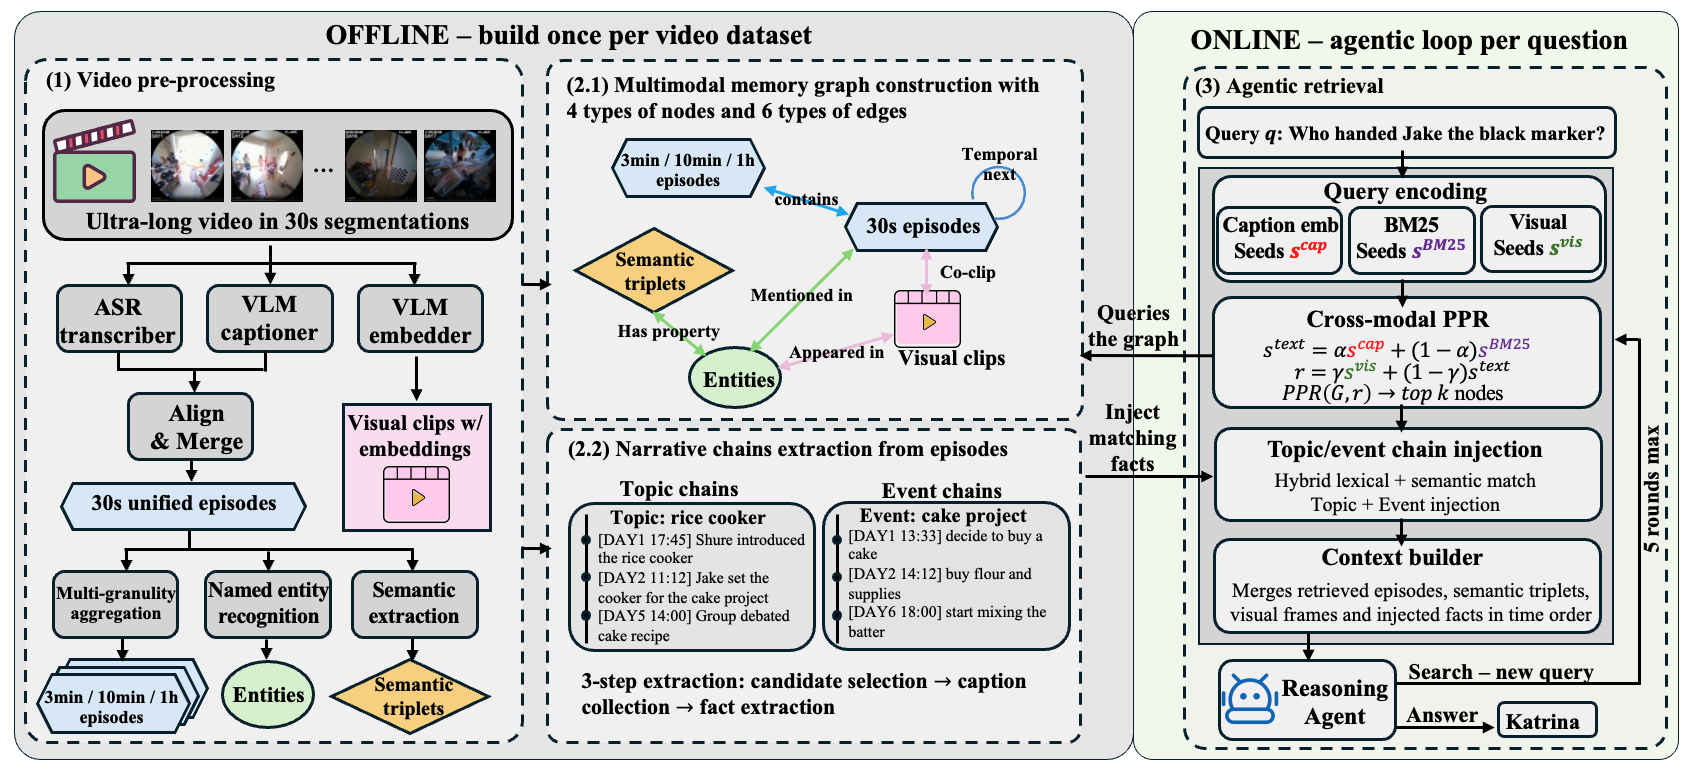
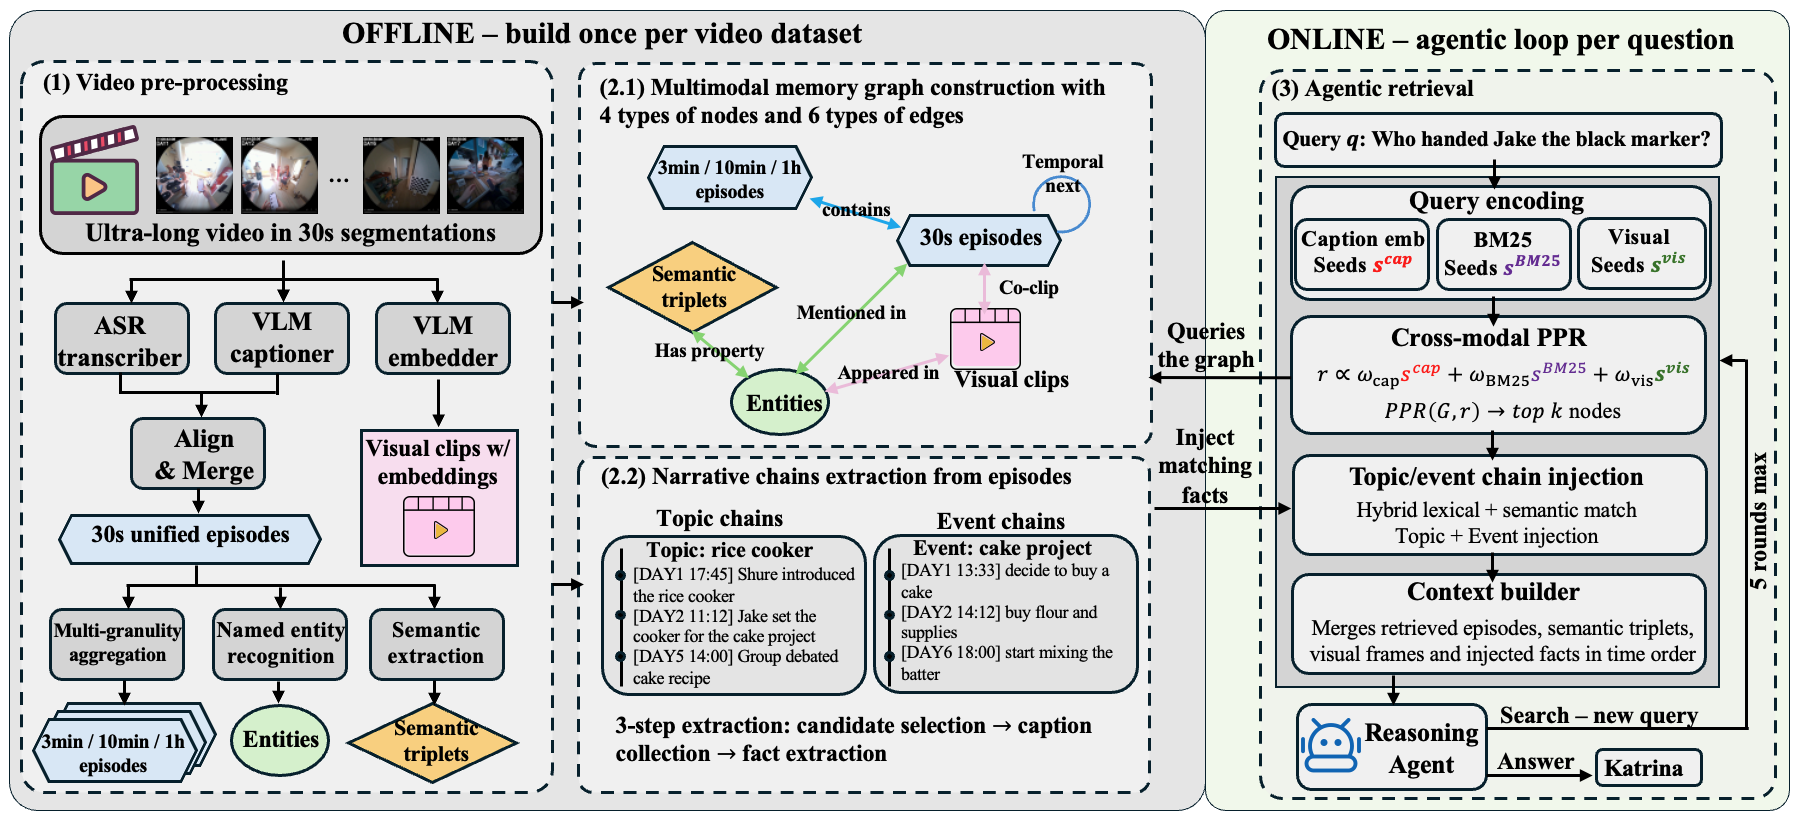
Update method figure and restore preprocessing scripts referenced in README
- figures/fig2.png: new method overview matching the camera-ready paper
  (seed vector written as a weighted sum of the three channels).
- preprocess/egolife/{translate_densecap,generate_sync}.py: restore the two
  caption-preprocessing scripts README step 3.2 calls (they lived under
  data/EgoLife/utils/, which is not tracked); translation defaults to
  openai/gpt-4o-mini via OpenRouter, overridable with --model or
  TRANSLATION_MODEL.
- src/worldmm/memory/episodic/multiscale.py: restore the module used by
  README step 3.3 (removed in 0f2273f as dead code).
- README: point step 3.2 at the restored scripts.

Changed region(s): [[0.0, 0.0, 1.0, 0.9948], [0.7077, 0.6528, 0.7385, 0.6839]]

diff --git a/preprocess/egolife/translate_densecap.py b/preprocess/egolife/translate_densecap.py
@@ -1,0 +1,111 @@
+import argparse
+import json
+import os
+from concurrent.futures import ThreadPoolExecutor, as_completed
+import pysrt
+from tqdm import tqdm
+
+from worldmm.llm import LLMModel
+
+DEFAULT_TRANSLATION_MODEL = "openai/gpt-4o-mini"
+
+SYSTEM_PROMPT = "You are a helpful assistant that translates text from Chinese to English. Answer in translated text only."
+
+
+def build_record(name: str, date: str, start: str, end: str, idx: int, translation: str) -> dict:
+    return {
+        "custom_id": f"{idx}-{name}-{date}-{start}-{end}",
+        "translated_text": translation
+    }
+
+
+def translate(input_path: str, output_path: str, model_name: str) -> None:
+    """
+    Translate a single SRT file or every SRT file under a directory (e.g., DenseCaption/A1_JAKE/DAY*).
+    - input_path: path to an SRT file or a directory containing DAY folders.
+    - output_path: output file if input_path is a file, otherwise output directory for all translated JSONLs.
+    """
+    model = LLMModel(model_name=model_name)
+
+    def _translate_file(in_file: str, out_file: str) -> None:
+        subs = list(pysrt.open(in_file))
+        name = in_file.split("/")[-3]
+        date = in_file.split("/")[-2]
+        hour = int(os.path.basename(in_file).split("_")[-1][:2])
+
+        def _translate_one(idx: int, text: str, start: str, end: str):
+            translation = model.generate([
+                {"role": "system", "content": SYSTEM_PROMPT},
+                {"role": "user", "content": text}
+            ])
+            return idx, build_record(name, date, start, end, idx, translation)
+
+        futures = []
+        with ThreadPoolExecutor() as executor:
+            for idx, sub in enumerate(subs, start=1):
+                start = f"{(hour + sub.start.hours):02d}{sub.start.minutes:02d}{sub.start.seconds:02d}"
+                end = f"{(hour + sub.end.hours):02d}{sub.end.minutes:02d}{sub.end.seconds:02d}"
+                futures.append(executor.submit(_translate_one, idx, sub.text, start, end))
+
+            results = {}
+            for future in tqdm(as_completed(futures), total=len(futures), desc=f"Translating {os.path.basename(in_file)}"):
+                idx, record = future.result()
+                results[idx] = record
+
+        ordered_records = [results[i] for i in sorted(results.keys())]
+
+        parent_dir = os.path.dirname(out_file) or "."
+        os.makedirs(parent_dir, exist_ok=True)
+        with open(out_file, "w", encoding="utf-8") as f:
+            for record in ordered_records:
+                json.dump(record, f, ensure_ascii=False)
+                f.write("\n")
+
+    if os.path.isdir(input_path):
+        os.makedirs(output_path, exist_ok=True)
+        day_dirs = sorted([d for d in os.listdir(input_path) if d.startswith("DAY")])
+        
+        file_pairs = []
+        for day in day_dirs:
+            day_path = os.path.join(input_path, day)
+            if not os.path.isdir(day_path):
+                continue
+
+            files = [f for f in os.listdir(day_path) if f.endswith(".srt")]
+            for file in files:
+                input_file = os.path.join(day_path, file)
+                output_file = os.path.join(output_path, file.replace(".srt", ".jsonl"))
+                file_pairs.append((input_file, output_file))
+        
+        with ThreadPoolExecutor() as executor:
+            futures = {executor.submit(_translate_file, in_f, out_f): in_f for in_f, out_f in file_pairs}
+            for future in tqdm(as_completed(futures), total=len(futures), desc="Translating files"):
+                future.result()
+    else:
+        _translate_file(input_path, output_path)
+
+
+if __name__ == "__main__":
+    parser = argparse.ArgumentParser(description="Translate DenseCaption SRT files to JSONL.")
+    parser.add_argument(
+        "--input-path",
+        default="data/EgoLife/EgoLifeCap/DenseCaption/A1_JAKE",
+        help="Input SRT file or directory containing DAY folders.",
+    )
+    parser.add_argument(
+        "--output-path",
+        default="data/EgoLife/EgoLifeCap/DenseCaption/translated",
+        help="Output JSONL file or directory.",
+    )
+    parser.add_argument(
+        "--model",
+        default=os.environ.get("TRANSLATION_MODEL", DEFAULT_TRANSLATION_MODEL),
+        help=(
+            "LLM model name. Uses TRANSLATION_MODEL env var when set, "
+            f"otherwise defaults to {DEFAULT_TRANSLATION_MODEL}."
+        ),
+    )
+    args = parser.parse_args()
+
+    print(f"[translate_densecap] Using model: {args.model}")
+    translate(args.input_path, args.output_path, args.model)

diff --git a/preprocess/egolife/generate_sync.py b/preprocess/egolife/generate_sync.py
@@ -1,0 +1,135 @@
+import json
+import os
+from typing import Dict, List
+
+import pandas as pd
+import pysrt
+from tqdm import tqdm
+
+BASE_DIR = "data/EgoLife"
+DENSE_CAPTION_DIR = os.path.join(BASE_DIR, "EgoLifeCap/DenseCaption")
+TRANSLATED_DIR = os.path.join(DENSE_CAPTION_DIR, "translated")
+TRANSCRIPT_DIR = os.path.join(BASE_DIR, "EgoLifeCap/Transcript")
+SYNC_DIR = os.path.join(BASE_DIR, "EgoLifeCap/Sync")
+
+def get_captions(caption_path: str) -> List[Dict[str, str]]:
+    captions = []
+    with open(caption_path, "r", encoding="utf-8") as f:
+        for line in f:
+            data = json.loads(line)
+            custom_id = data["custom_id"]
+            start = int(custom_id.split("-")[-2])
+            end = int(custom_id.split("-")[-1])
+            text = data["translated_text"]
+            captions.append(
+                {
+                    "start": start,
+                    "end": end,
+                    "text": text,
+                    "type": "caption",
+                }
+            )
+    return captions
+
+
+def get_transcripts(transcript_path: str) -> List[Dict[str, str]]:
+    if not os.path.exists(transcript_path):
+        return []
+
+    subs = list(pysrt.open(transcript_path))
+    hour = int(os.path.basename(transcript_path).split("_")[-1][:2])
+    transcripts: List[Dict[str, str]] = []
+
+    for sub in subs:
+        lines = sub.text.split("\n")
+        # English line is expected to be the last line (timestamp is separate, Chinese precedes it)
+        text = lines[-1].strip() if lines else ""
+        elem = {
+            "start": int(f"{(hour + sub.start.hours):02d}{sub.start.minutes:02d}{sub.start.seconds:02d}"),
+            "end": int(f"{(hour + sub.end.hours):02d}{sub.end.minutes:02d}{sub.end.seconds:02d}"),
+            "text": text,
+            "type": "transcript",
+        }
+        transcripts.append(elem)
+
+    return transcripts
+
+
+def find_video(files: List[str], start_time: int, end_time: int):
+    for file in files:
+        video_time = int(file.split("_")[-1][:-4])
+        if start_time <= video_time < end_time:
+            return file
+    return None
+
+
+def handle_time(time: int):
+    if time % 10000 == 6000:
+        time = time + 4000
+    if time % 1000000 == 600000:
+        time = time + 400000
+    return time
+
+
+def match_with_video(info: tuple, all_df: pd.DataFrame):
+    name, date, time = info
+    time = int(time)
+    root_dir = os.path.join(BASE_DIR, name, date)
+    
+    if not os.path.isdir(root_dir):
+        return []
+    all_video_files = sorted([f for f in os.listdir(root_dir) if os.path.isfile(os.path.join(root_dir, f))])
+
+    start_time = time
+    end_time = start_time + 3000
+
+    results = []
+    while start_time < time + 1000000:
+        video_file = find_video(all_video_files, start_time, end_time)
+        if video_file is not None:
+            cur_df = all_df[(all_df["start"] >= (start_time // 100)) & (all_df["end"] <= (end_time // 100))]
+            if len(cur_df) > 0:
+                data = []
+                for _, row in cur_df.iterrows():
+                    data.append(
+                        {
+                            "start": row["start"],
+                            "end": row["end"],
+                            "text": row["text"],
+                            "type": row["type"],
+                        }
+                    )
+
+                results.append({"video_file": video_file, "data": data})
+
+        start_time = end_time
+        end_time = handle_time(end_time + 3000)
+
+    return results
+
+
+def main():
+    translated_files = sorted([f for f in os.listdir(TRANSLATED_DIR) if f.endswith(".jsonl")])
+    for caption_file in tqdm(translated_files, desc="Syncing captions"):
+        file_name = caption_file[:-6]
+        idx, name, date, time = file_name.split("_")
+        name = idx + "_" + name
+
+        caption_path = os.path.join(TRANSLATED_DIR, caption_file)
+        transcript_path = os.path.join(TRANSCRIPT_DIR, name, date, f"{file_name}.srt")
+
+        captions = get_captions(caption_path)
+        transcripts = get_transcripts(transcript_path)
+
+        all_data = captions + transcripts
+        all_df = pd.DataFrame(all_data)
+        all_df.sort_values(by="start", inplace=True)
+
+        results = match_with_video((name, date, time), all_df)
+        os.makedirs(SYNC_DIR, exist_ok=True)
+        with open(os.path.join(SYNC_DIR, f"{file_name}.json"), "w", encoding="utf-8") as f:
+            json.dump(results, f, indent=4, ensure_ascii=False)
+
+
+if __name__ == "__main__":
+    main()

diff --git a/src/worldmm/memory/episodic/multiscale.py b/src/worldmm/memory/episodic/multiscale.py
@@ -1,0 +1,51 @@
+from egorag.agents.RagAgent import RagAgent
+from egorag.database.Chroma import Chroma
+from egorag.utils.gen_event import gen_event
+
+
+def generate_multiscale_memory(db_name: str = "A1_JAKE", 
+                          json_path: str = "data/EgoLife/EgoLifeCap/A1_JAKE/A1_JAKE_30sec.json",
+                          diary_dir: str = ".cache/events_diary",
+                          save_path: str = "data/EgoLife/EgoLifeCap"):
+    """
+    Run the multiscale episodic memory pipeline.
+    
+    Args:
+        db_name: Name of the Chroma database
+        json_path: Path to the JSON file for database creation
+        diary_dir: Path to the diary directory
+        save_path: Path to save the generated events
+    """
+    # Initialize the Chroma database with the provided name
+    db_t = Chroma(name=db_name)
+
+    # Initialize the RagAgent
+    agent = RagAgent(database_t=db_t, name=db_name, video_base_dir=f"data/EgoLife/{db_name}")
+
+    # Create the database from the provided JSON file
+    agent.create_database_from_json(json_path)
+
+    gen_event(db_name, diary_dir, save_path)
+
+
+# Entry point for the script
+if __name__ == "__main__":
+
+    import argparse
+
+    parser = argparse.ArgumentParser(
+        description="Initialize RagAgent with database and JSON path."
+    )
+    parser.add_argument("--db_name", default="A1_JAKE", help="Name of the Chroma database")
+    parser.add_argument("--json_path", default="data/EgoLife/EgoLifeCap/A1_JAKE/A1_JAKE_30sec.json", help="Path to the JSON file for database creation")
+    parser.add_argument("--diary_dir", default=".cache/events_diary", help="Path to the diary directory")
+    parser.add_argument("--save_path", default="data/EgoLife/EgoLifeCap", help="Path to save the generated events")
+
+    args = parser.parse_args()
+
+    generate_multiscale_memory(
+        db_name=args.db_name,
+        json_path=args.json_path,
+        diary_dir=args.diary_dir,
+        save_path=args.save_path
+    )

diff --git a/README.md b/README.md
@@ -94,10 +94,11 @@ hf download lmms-lab/EgoLife --repo-type=dataset --local-dir data/EgoLife
 ### 3.2 Preprocess captions
 
 ```bash
-# [API] Translate dense captions (CN → EN)
-python data/EgoLife/utils/translate_densecap.py
+# [API] Translate dense captions (CN → EN); defaults to openai/gpt-4o-mini,
+# override with --model or the TRANSLATION_MODEL env var
+python preprocess/egolife/translate_densecap.py
 # [Local] Align translated captions with transcripts
-python data/EgoLife/utils/generate_sync.py
+python preprocess/egolife/generate_sync.py
 ```
 
 ### 3.3 Extract memory features
